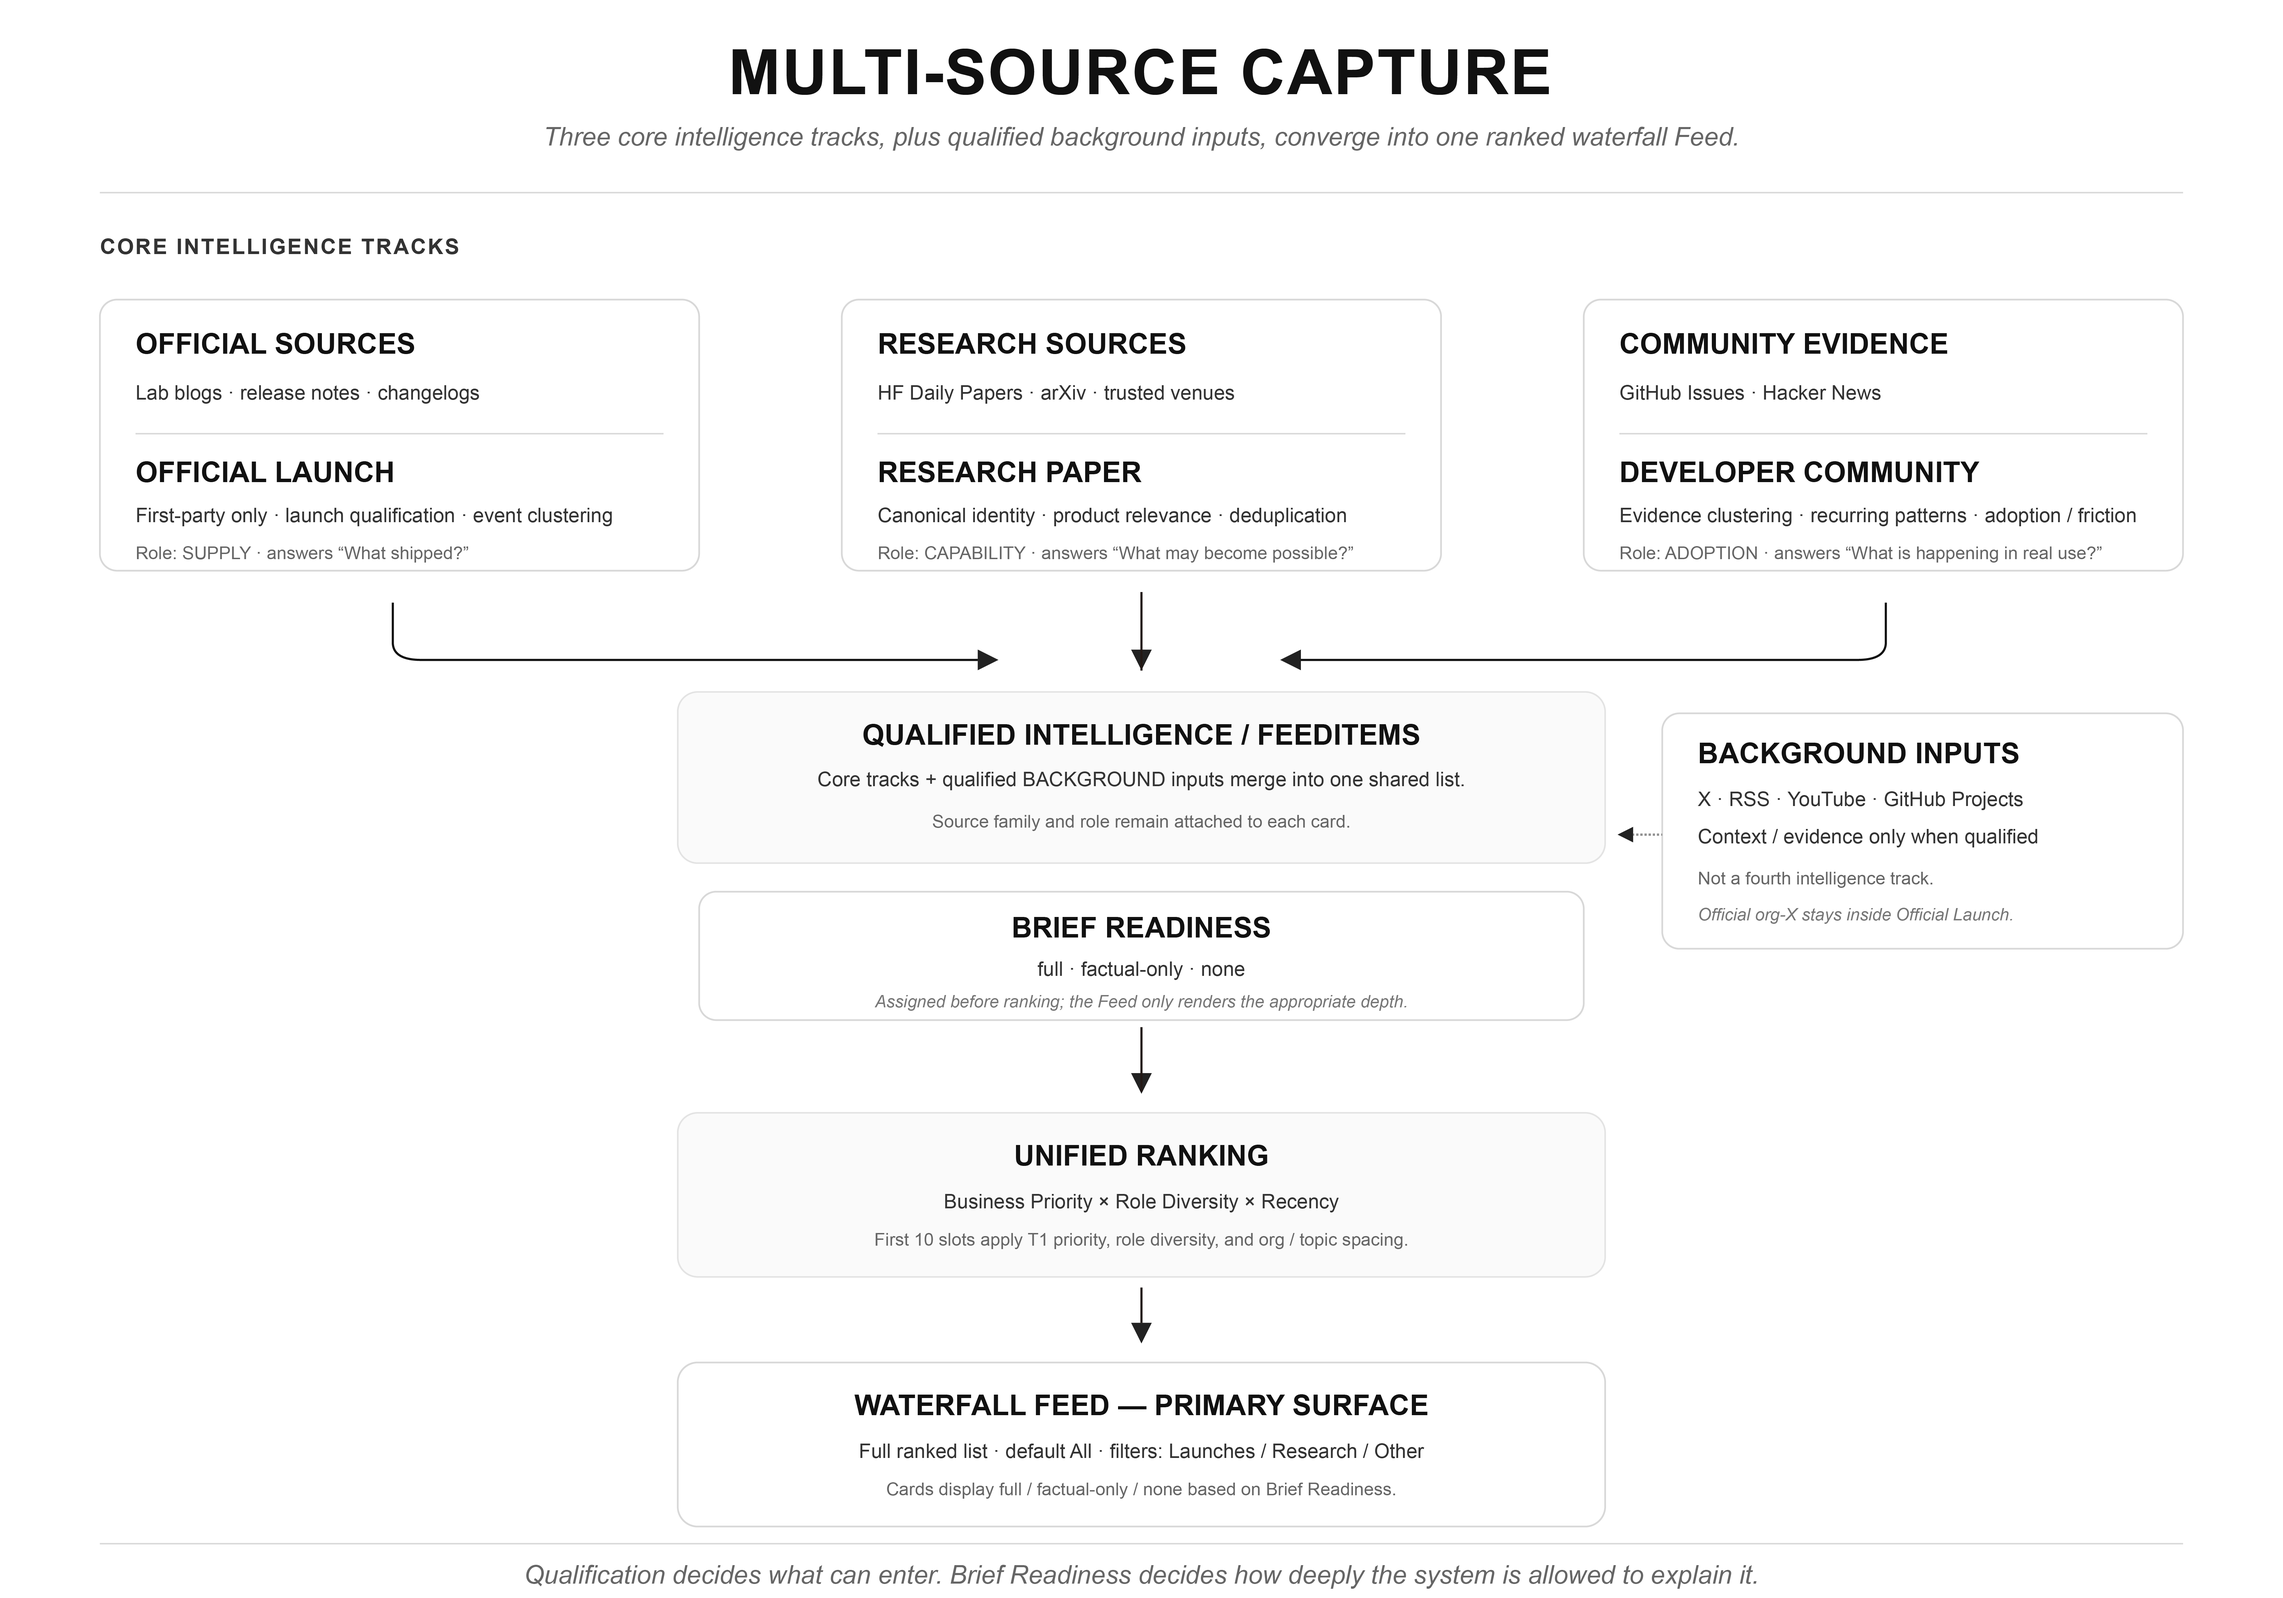
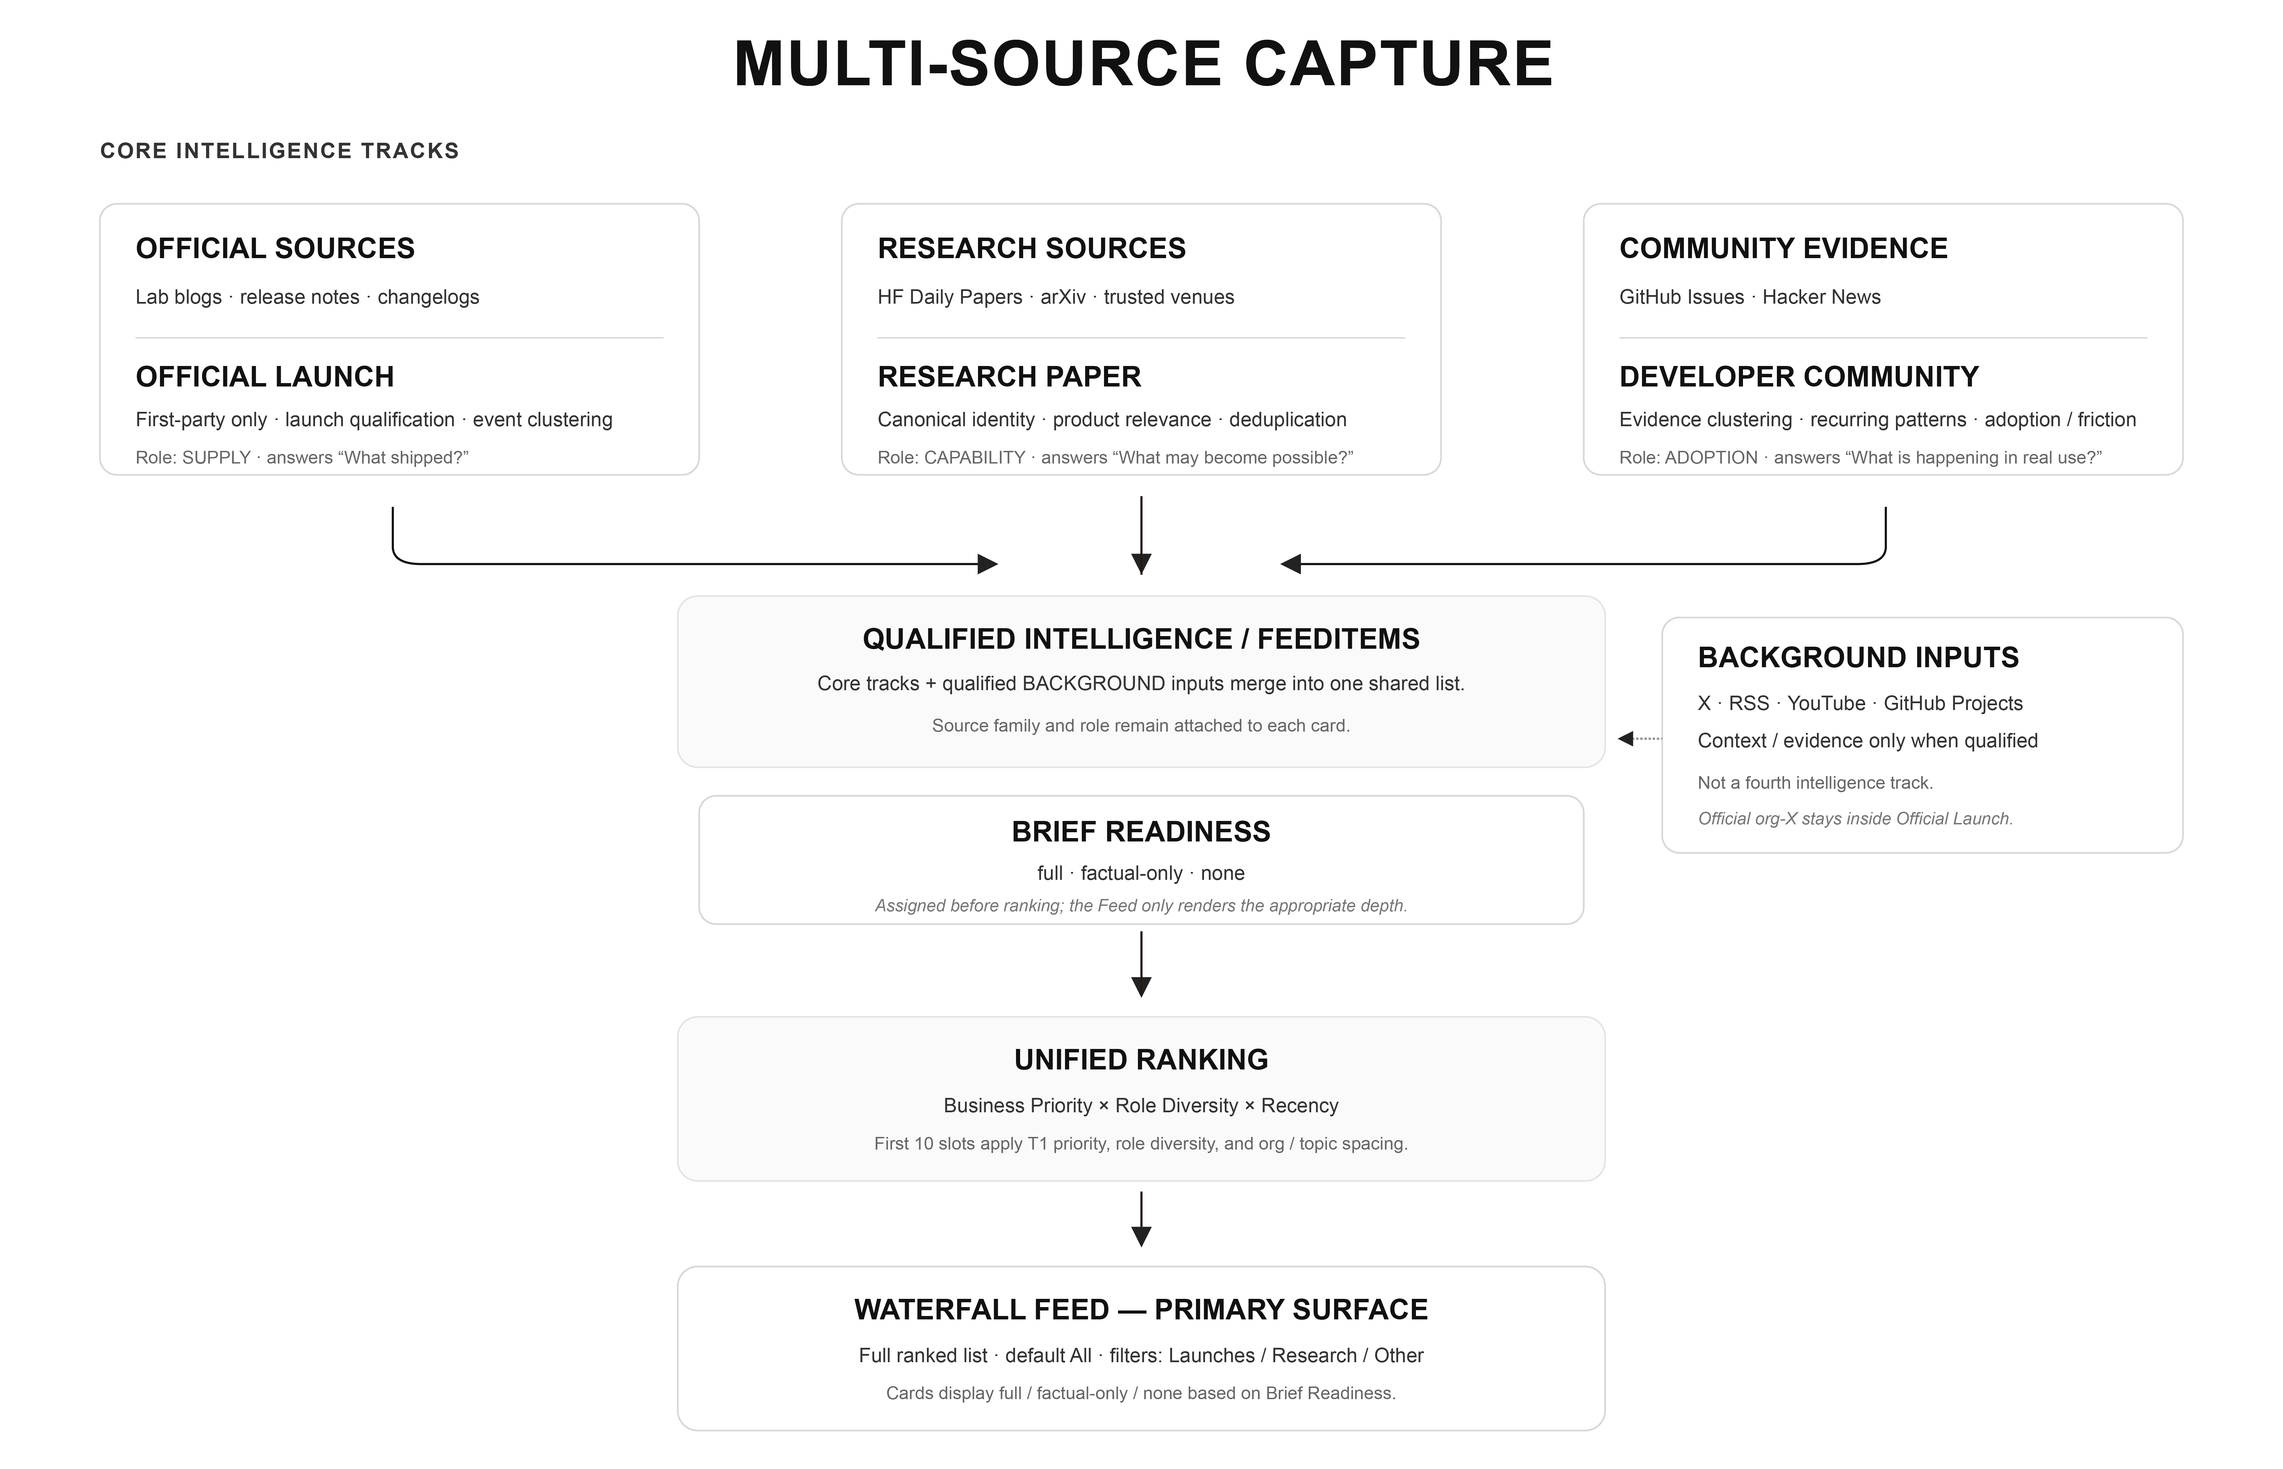
Tighten Signal case-study copy and refresh the capture diagram.

diff --git a/src/components/project/content/SignalContent.jsx b/src/components/project/content/SignalContent.jsx
@@ -29,7 +29,7 @@ const IMAGES = [
     src: '/assets/Signal/signal_multi_source_capture.png',
     alt: 'Multi-source capture — Official, Research, and Community tracks plus background inputs',
     caption:
-      'Figure 4 — Multi-source capture: three core intelligence tracks plus qualified background inputs converge into one ranked waterfall Feed.',
+      'Figure 4 — Qualification decides what can enter. Brief Readiness decides how deeply the system is allowed to explain it.',
   },
   {
     src: '/assets/Signal/UNIFIED RANKING.png',
@@ -91,9 +91,9 @@ export default function SignalContent() {
       <ProjectSection title="User Research" titleId="signal-research">
         <p className="uos-sec-prose">
           Interviews asked a single question: what information do AI PMs and designers need to stay
-          ahead of AI change? Four needs came back — model capability, research signals, the product
-          landscape, and market reaction — and three requirements for the information itself:
-          diversity of channels, timeliness, and a takeaway they can act on.
+          ahead of AI change? Four needs came back: model capability, research signals, the product
+          landscape, and market reaction. In addition, three requirements for the information
+          itself: diversity of channels, timeliness, and a takeaway they can act on.
         </p>
         <p className="uos-sec-callout">
           The problem wasn&apos;t access to AI information — it was knowing what to watch, what to
@@ -103,105 +103,75 @@ export default function SignalContent() {
       </ProjectSection>
 
       <ProjectSection title="Design Goal" titleId="signal-goal">
-        <p className="uos-sec-prose">
-          The design shift is from more information to a higher signal-to-noise ratio — and from a
-          generic stream to recommendations shaped by role and product context.
-        </p>
         <p className="proj-label">How Might We</p>
         <p className="uos-sec-callout">
           How might we give AI product managers and designers a high-SNR, personalized window of
           intelligence in the little time they have?
         </p>
-        <p className="proj-label">Two goals</p>
-        <ul className="uos-sec-list">
-          <li>
-            <strong>Raise the signal-to-noise ratio</strong> — Qualify and rank so only
-            high-evidence, product-relevant items enter the attention window.
-          </li>
-          <li>
-            <strong>Personalize what surfaces</strong> — Match intelligence to role and the work
-            being shipped, instead of ranking one feed for everyone.
-          </li>
-        </ul>
-      </ProjectSection>
-
-      <ProjectSection title="System Overview" titleId="signal-system">
-        <p className="uos-sec-prose">
-          Signal is a two-stage pipeline: Capture → Rank &amp; Show. Raw streams are gated before
-          they ever reach one ranked Feed.
-        </p>
+        <p className="proj-label">Two Goals</p>
         <ol className="uos-flow">
           <li>
             <span className="uos-flow-num">01</span>
             <div>
-              <p className="uos-flow-title">Capture</p>
+              <p className="uos-flow-title">Reduce noise</p>
               <p className="uos-flow-desc">
-                Official, Research, Community, and Background each enter through live connectors,
-                then source-specific qualification. Official, Research, and Community get a publish
-                cap; Background enters with lighter gating. They merge into one unified candidate
-                pool — source family stays on the card.
+                Surface high-quality, product-relevant information so users spend less time
+                filtering and more time reading what matters.
               </p>
             </div>
           </li>
           <li>
             <span className="uos-flow-num">02</span>
             <div>
-              <p className="uos-flow-title">Rank &amp; Show</p>
+              <p className="uos-flow-title">Personalize relevance</p>
               <p className="uos-flow-desc">
-                Recall pulls from that pool; rank applies attention priority and recency; re-rank
-                adds T1/T2 preference, role diversity, and org/topic spacing. All ranked items
-                continue down a waterfall Feed. Opening a card gives an Impact Brief: what happened,
-                why it matters, impact, and a takeaway.
+                Prioritize information based on each user&apos;s role, interests, and product
+                context instead of giving everyone the same feed.
               </p>
             </div>
           </li>
         </ol>
+      </ProjectSection>
+
+      <ProjectSection title="System Overview" titleId="signal-system">
         <Fig src="/assets/Signal/signal_system_overview.png" />
       </ProjectSection>
 
       <ProjectSection title="Source Strategy" titleId="signal-sources">
         <p className="uos-sec-prose">
-          Different sources exist to answer different questions. Mixing them without a role produces
-          noise — official availability sitting next to rumor, research sitting next to shipping
-          news. Each family was chosen for the question it answers, then held to its own selection
-          rule and evidence bar.
+          Rather than aggregating as many sources as possible, I defined three types of signals
+          based on the questions users needed answered: official sources show what shipped, research
+          sources reveal what may become possible, and developer communities show what is happening
+          in real use.
         </p>
-        <ul className="uos-sec-list">
-          <li>
-            <strong>Official signals</strong> — Track what models and AI products have become
-            available. First-party release details from 12 labs + 2 release RSS.
-          </li>
-          <li>
-            <strong>Research signals</strong> — Surface emerging capabilities with product
-            implications. Canonical papers from HF Daily and selected AI / HCI venues.
-          </li>
-          <li>
-            <strong>Developer signals</strong> — Reveal adoption patterns and implementation
-            friction. Recurring evidence from product-relevant GitHub repos, with Hacker News as
-            support.
-          </li>
-        </ul>
+        <p className="uos-sec-prose">
+          Each source type therefore follows a different selection and evidence standard. The goal
+          wasn&apos;t maximum coverage, but making sure each source had a clear reason to be in the
+          feed.
+        </p>
         <Fig src="/assets/Signal/signal_source_strategy.png" />
       </ProjectSection>
 
       <ProjectSection title="Scrape" titleId="signal-scrape">
         <p className="uos-sec-prose">
-          A launch, a paper, and a community thread cannot share the same rules. If they did,
-          official availability would be held to the same bar as a GitHub complaint, and a research
-          preprint would be treated like a shipped product.
+          The challenge wasn&apos;t finding sources, but deciding what deserved attention. I built
+          source-specific qualification paths for official launches, research, and developer
+          evidence, then merged qualified signals into one ranked Feed, with background sources
+          such as X providing context at lower priority.
         </p>
         <p className="uos-sec-prose">
-          Signal gives each source type its own qualification track. Official launches need
-          first-party confirmation, a meaningful release, and availability. Research needs a
-          canonical paper and product relevance. Community evidence needs recurrence, a concrete
-          artifact, and a product implication. Background is not a fourth track — it enters only as
-          context, and only when qualified.
+          Signal gives each source type its own qualification track. Official Launch (SUPPLY) is
+          first-party only, with launch qualification and event clustering. Research Paper
+          (CAPABILITY) needs a canonical identity, product relevance, and deduplication. Developer
+          Community (ADOPTION) needs evidence clustering and recurring adoption or friction.
+          Background is not a fourth track — it enters only as context, and only when qualified.
+          Official org-X stays inside Official Launch.
         </p>
         <p className="uos-sec-prose">
-          Qualified items merge into one shared list, with source family still on the card. Before
-          ranking, each item is assigned a Brief Readiness — full, factual-only, or none — so the
-          Feed only renders the depth the system is allowed to explain. Unified ranking then becomes
-          a waterfall Feed, not a Top-N screen.
+          Qualified items merge into one shared list, with source family and role still on the card.
+          Before ranking, each item is assigned a Brief Readiness — full, factual-only, or none —
+          so the Feed only renders the depth the system is allowed to explain. Unified ranking then
+          becomes the waterfall Feed.
         </p>
         <p className="proj-label">The gate</p>
         <p className="uos-sec-callout">
@@ -212,23 +182,10 @@ export default function SignalContent() {
 
       <ProjectSection title="Ranking" titleId="signal-ranking">
         <p className="uos-sec-prose">
-          Once items are qualified, the remaining problem is mixing them. A single global score
-          clusters similar items — three launches from the same lab, or a feed that never surfaces
-          developer friction.
-        </p>
-        <p className="uos-sec-prose">
-          Each candidate is annotated with a role, an attention class, and an identity. T1/T2 tiers
-          apply only to SUPPLY. The feed is built one item at a time: attention priority first
-          (HIGH → MEDIUM → BACKGROUND), then diversity and business rules — org/topic spacing, role
-          coverage in the first ten, T1 before T2 — then recency.
-        </p>
-        <p className="uos-sec-prose">
-          The result is a full ordered Feed. Positions 1–10 get extra role-coverage and repetition
-          rules. Everything else continues down the list.
-        </p>
-        <p className="uos-sec-callout">
-          Roles have no fixed positions. BACKGROUND follows core attention classes, and may enter
-          the first ten when core candidates are insufficient.
+          A single relevance score wasn&apos;t enough. I designed ranking as an attention-allocation
+          system: candidates are prioritized by attention class, balanced by role and business
+          rules, then ordered by recency. The first 10 slots receive additional diversity
+          constraints, while the full Feed remains a continuous ranked waterfall.
         </p>
         <Fig src="/assets/Signal/UNIFIED RANKING.png" />
       </ProjectSection>
